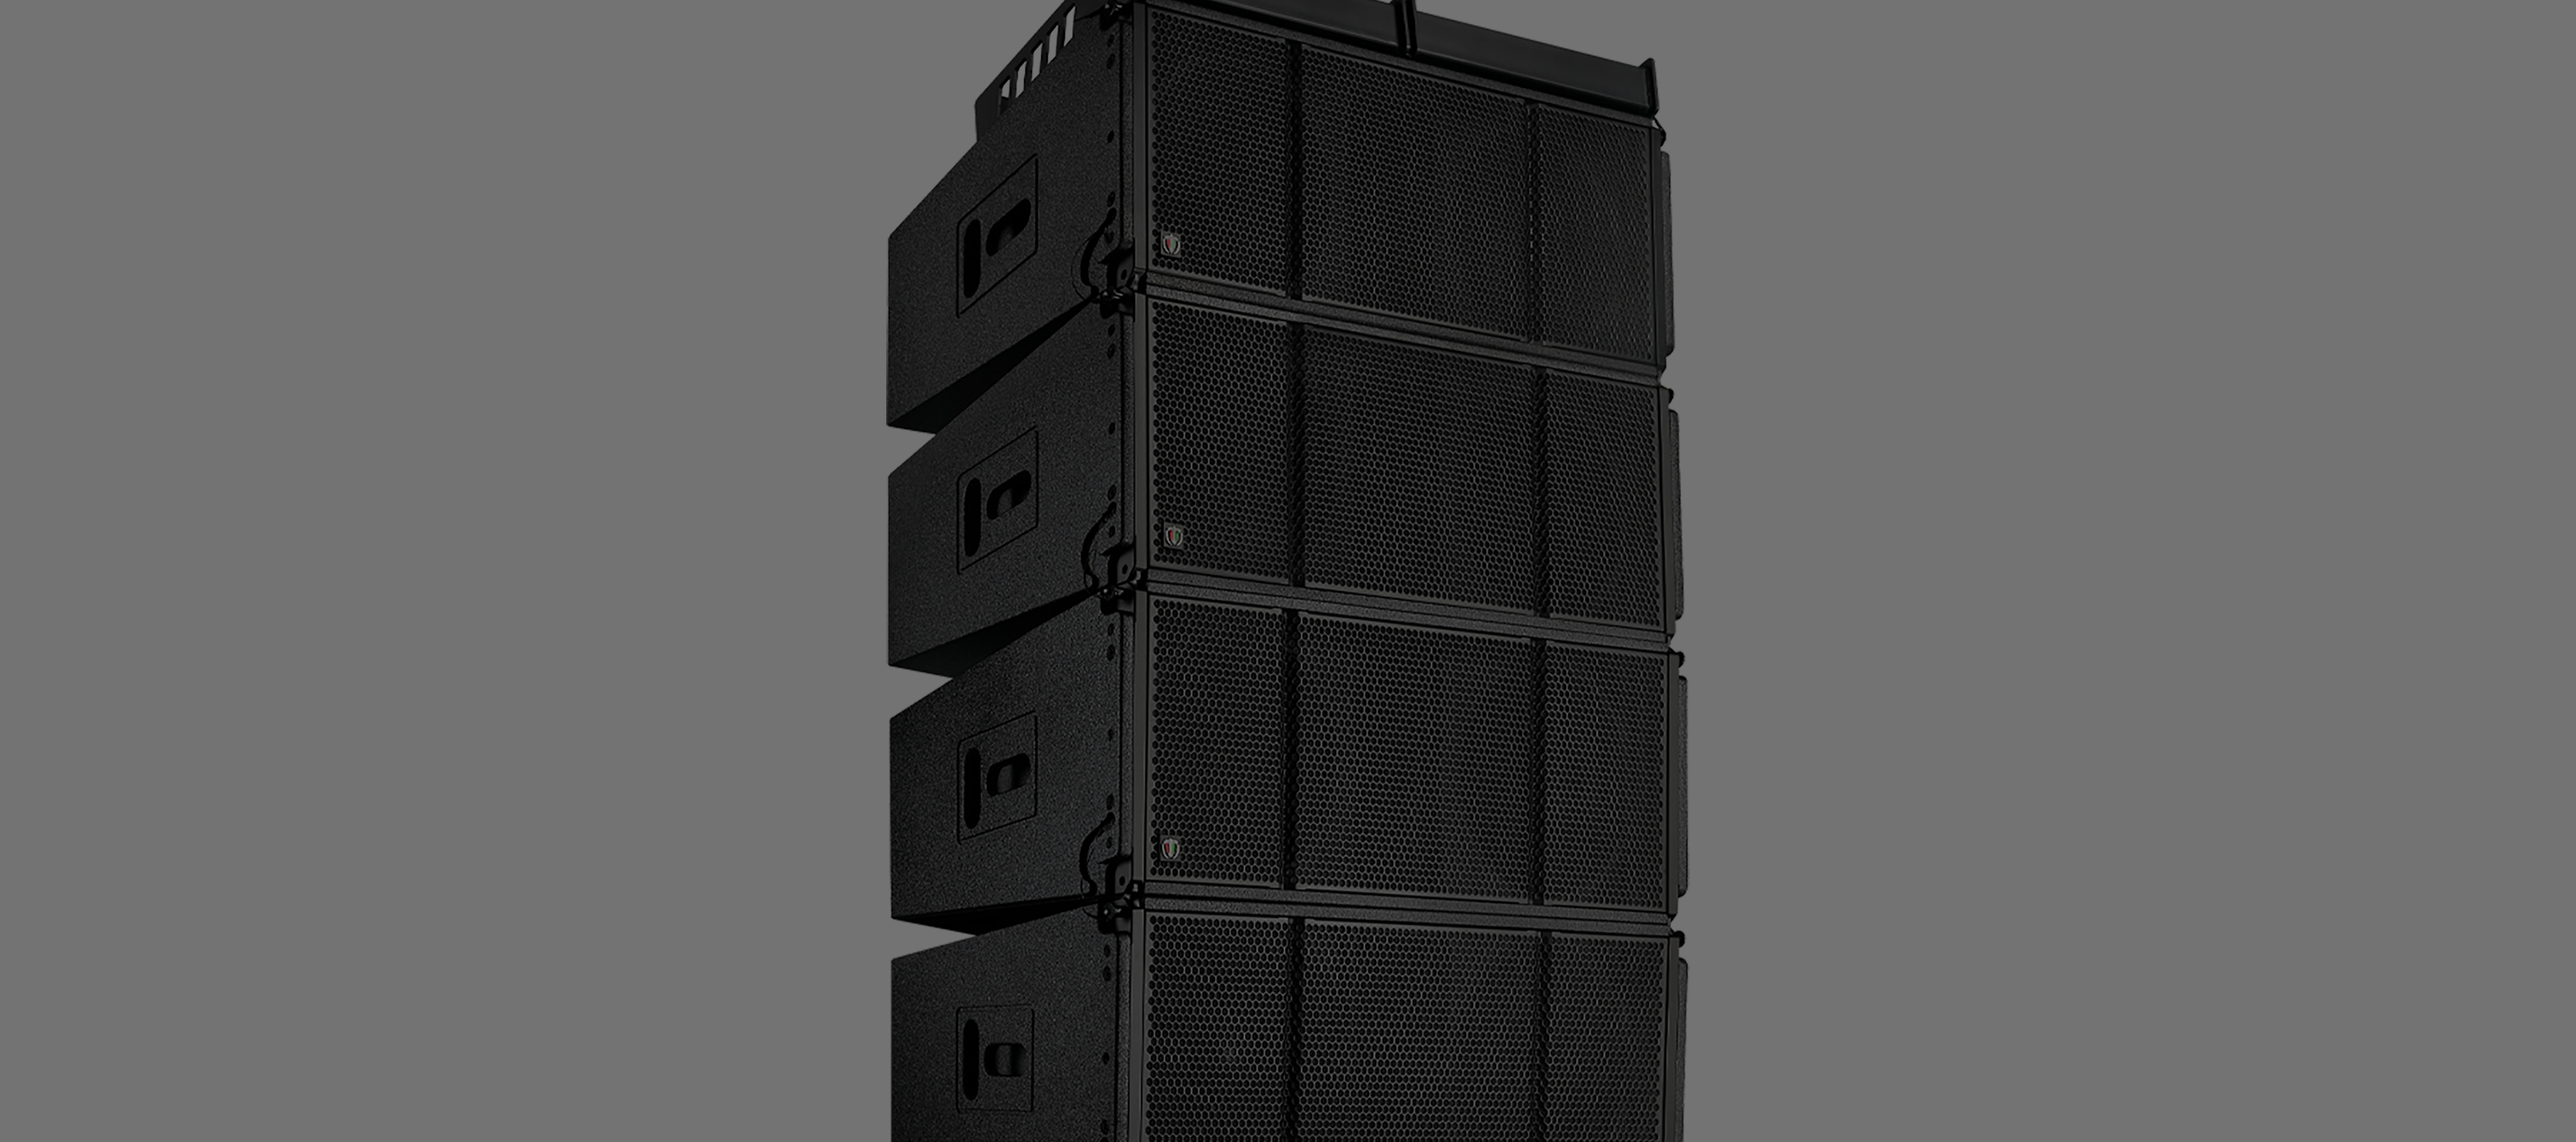
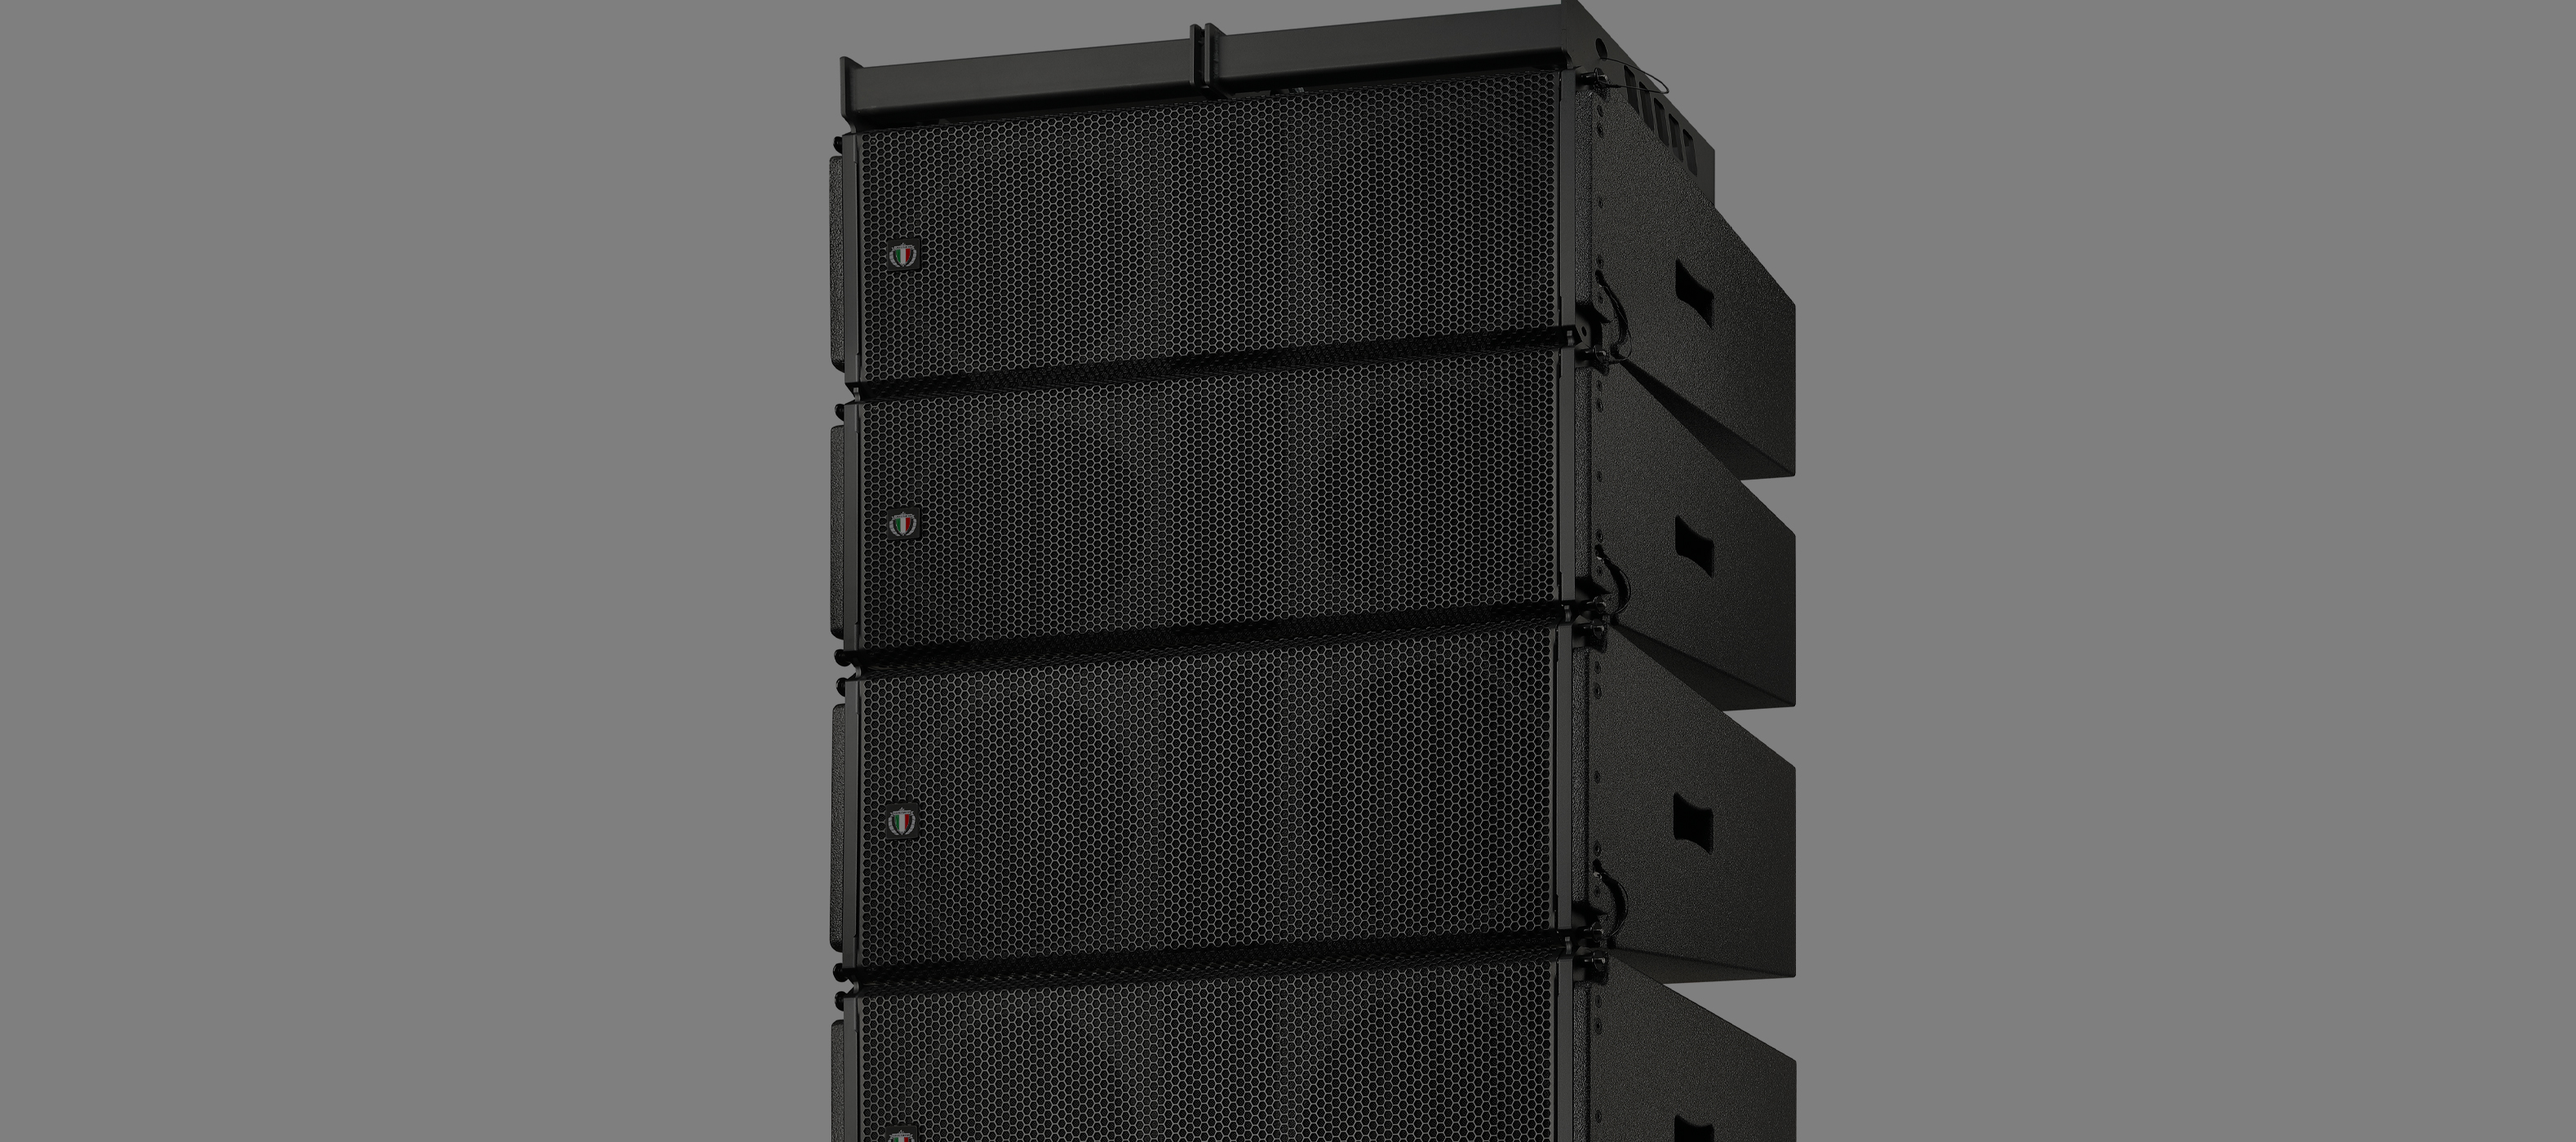
chane

Changed region(s): [[0.3104, 0.0, 0.714, 1.0]]

diff --git a/src/components/LineArrayDetails.jsx b/src/components/LineArrayDetails.jsx
@@ -27,8 +27,8 @@ import qfront from "../assets/q50/qfront.JPG";
 import qback from "../assets/q50/qback.JPG";
 import qnos from "../assets/q50/qnos.JPG";
 import qs from "../assets/q50/qs.JPG";
-import qss from "../assets/q50/qss.JPG";
-import q50layer from "../assets/q50/q50layer.jpg";
+// import qss from "../assets/q50/qss.JPG";
+// import q50layer from "../assets/q50/q50layer.jpg";
 //q60//
 import q60front from "../assets/q60/q60front.JPG";
 import q60s from "../assets/q60/q60s.JPG";
@@ -41,9 +41,9 @@ import q60layer from "../assets/q60/q60layer.jpg";
 import q70front from "../assets/q70/q70front.JPG";
 import q70j from "../assets/q70/q70j.JPG";
 import q70s from "../assets/q70/q70s.JPG";
-import q70ss from "../assets/q70/q70ss.JPG";
+// import q70ss from "../assets/q70/q70ss.JPG";
 import q70back from "../assets/q70/q70back.JPG";
-import q70layer from "../assets/q70/q70layer.jpg";
+// import q70layer from "../assets/q70/q70layer.jpg";
 //q80//
 import q80front from "../assets/q80/q80f.JPG";
 import q80s from "../assets/q80/q80s.JPG";
@@ -121,7 +121,7 @@ const products = [
     ],
   },
   {
-    img: [qfront, qnos, qback, qss, qs, q50layer],
+    img: [qfront, qnos, qback, qs],
     title: "Line Array ",
     model: "Q 50",
     description:
@@ -228,7 +228,7 @@ const products = [
     ],
   },
   {
-    img: [q70front, q70j, q70back, q70ss, q70layer],
+    img: [q70front, q70j, q70back,],
     title: "Line array ",
     model: "Q 70",
     description:

diff --git a/src/components/LineArraySeries/Qseries.jsx b/src/components/LineArraySeries/Qseries.jsx
@@ -6,15 +6,16 @@ import q60front from "../../assets/q60/q60front.JPG";
 import q70front from "../../assets/q70/q70front.JPG";
 import q80f from "../../assets/q80/q80f.JPG";
 import qss from "../../assets/q50/qss.JPG";
-import q60s from "../../assets/q60/q60s.JPG";
-import q70ss from "../../assets/q70/q70ss.JPG";
+import q60s from "../../assets/q60/q60s.jpg"
+// import q60s from "../../assets/q60/q60s.JPG";
+// import q70ss from "../../assets/q70/q70ss.JPG";
 // import coxs from "../assets/coximg/coxs.jpg";
 
 import { useNavigate } from "react-router-dom";
 
 const products = [
   {
-    img: qss,
+    img: qfront,
     title: "Q Series",
     model: "Q 50",
     description: `1x10" Two-way Passive/Bi-Amp Switchable Line Array Speaker System`,
@@ -36,7 +37,7 @@ const products = [
     weight: "22.8Kg",
   },
   {
-    img: q70ss,
+    img: q70front,
     title: "Q Series",
     model: "Q 70",
     description: `1x12" Two-way Passive/Bi-Amp Switchable Line Array Speaker System`,

diff --git a/src/components/LinearArray.jsx b/src/components/LinearArray.jsx
@@ -13,10 +13,11 @@ import q60front from "../assets/q60/q60front.JPG";
 import q70front from "../assets/q70/q70front.JPG";
 import q80f from "../assets/q80/q80f.JPG";
 import coxf from "../assets/coximg/coxf.jpg";
-import qss from "../assets/q50/qss.JPG";
+// import qss from "../assets/q50/qss.JPG";
 import q60s from "../assets/q60/q60s.JPG";
-import q70ss from "../assets/q70/q70ss.JPG";
+// import q70ss from "../assets/q70/q70ss.JPG";
 import coxs from "../assets/coximg/coxs.jpg";
+
 
 const products = [
   {
@@ -31,7 +32,7 @@ const products = [
     weight: "50Kg",
   },
   {
-    img: qss,
+    img: qfront,
     title: "Q Series",
     model: "Q 50",
     description: `1x10" Two-way Passive/ Bi-Amp Switchable Line Array Speaker System`,
@@ -53,7 +54,7 @@ const products = [
     weight: "22.8Kg",
   },
   {
-    img: q70ss,
+    img: q70front,
     title: "Q Series",
     model: "Q 70",
     description: `1x12" Two-way Passive/ Bi-Amp Switchable Line Array Speaker System`,
